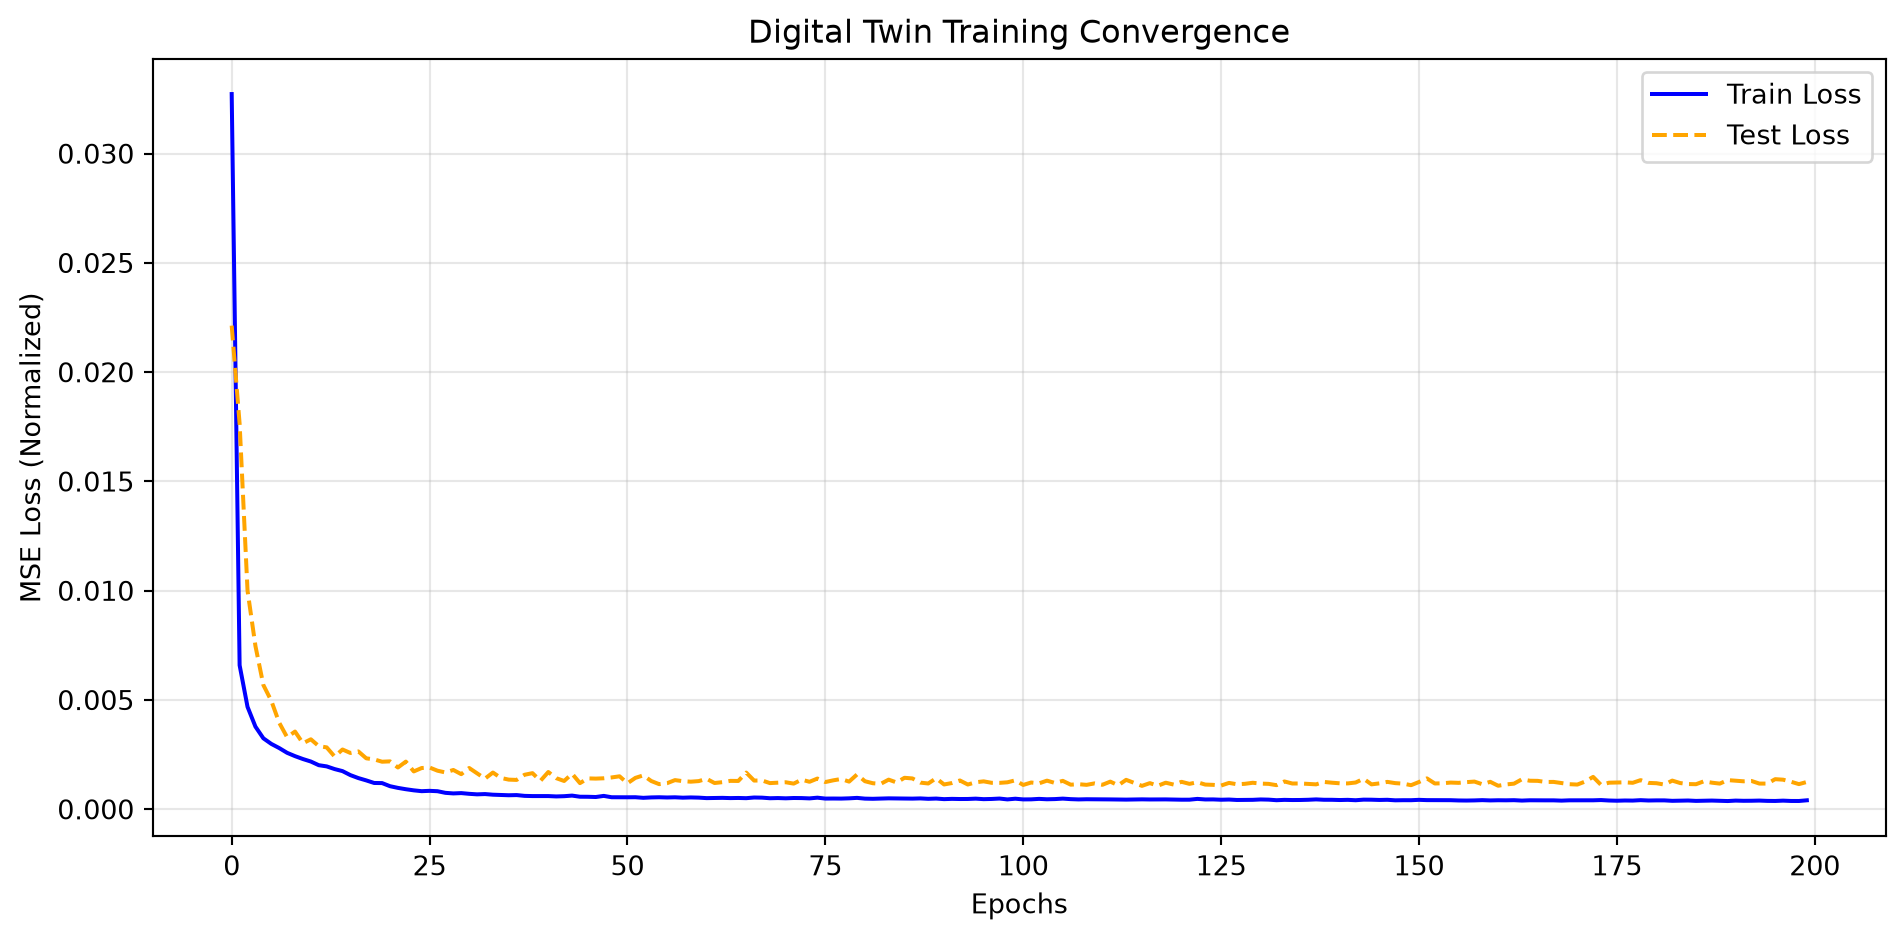
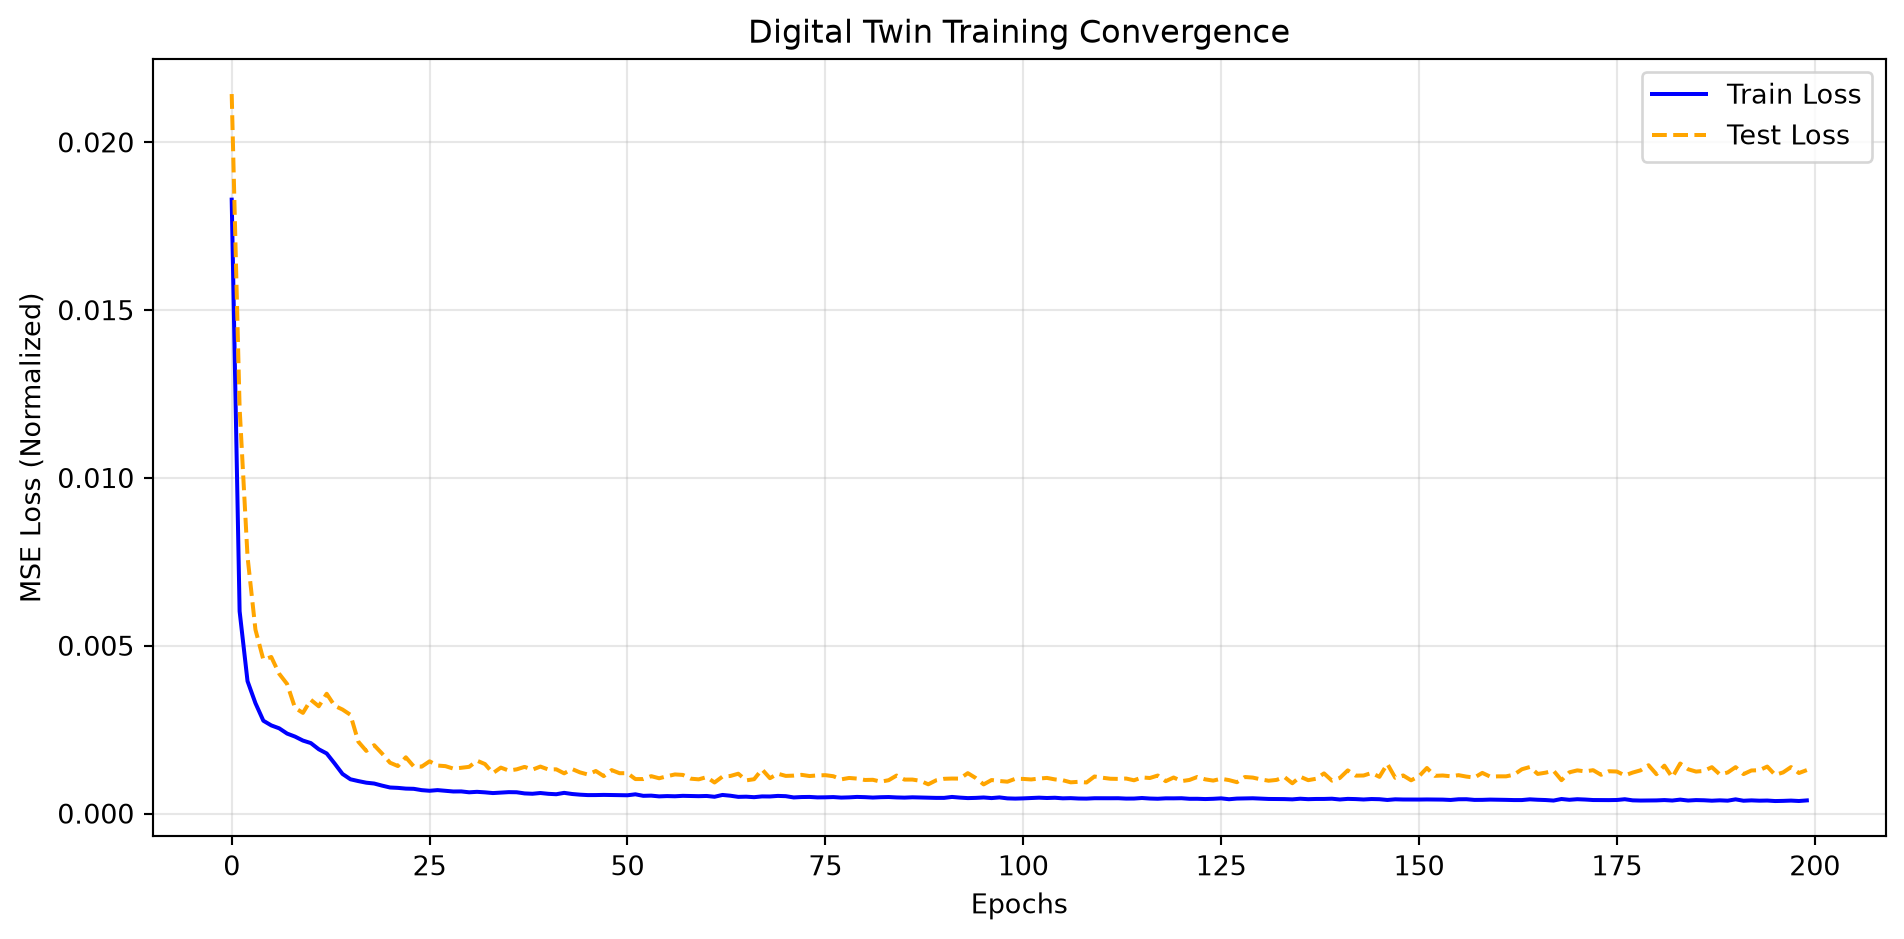
Built site for gh-pages

diff --git a/ai-ml/optitherm.html b/ai-ml/optitherm.html
@@ -497,7 +497,7 @@ os.environ['KAGGLE_KEY'] = "your_api_key"</code></pre>
 </div>
 </div>
 <hr>
-<div id="77cea618" class="cell" data-execution_count="1">
+<div id="9a4fe163" class="cell" data-execution_count="1">
 <div class="code-copy-outer-scaffold"><div class="sourceCode cell-code" id="cb2"><pre class="sourceCode python code-with-copy"><code class="sourceCode python"><span id="cb2-1"><a href="#cb2-1" aria-hidden="true" tabindex="-1"></a><span class="im">import</span> os</span>
 <span id="cb2-2"><a href="#cb2-2" aria-hidden="true" tabindex="-1"></a><span class="im">import</span> pandas <span class="im">as</span> pd</span>
 <span id="cb2-3"><a href="#cb2-3" aria-hidden="true" tabindex="-1"></a></span>
@@ -598,7 +598,7 @@ operable program or batch file.</code></pre>
 </section>
 <section id="stage-1-data-engineering-and-consolidation-1" class="level2">
 <h2 class="anchored" data-anchor-id="stage-1-data-engineering-and-consolidation-1">Stage 1: Data Engineering and Consolidation</h2>
-<div id="4094df43" class="cell" data-execution_count="2">
+<div id="67545c28" class="cell" data-execution_count="2">
 <div class="code-copy-outer-scaffold"><div class="sourceCode cell-code" id="cb5"><pre class="sourceCode python code-with-copy"><code class="sourceCode python"><span id="cb5-1"><a href="#cb5-1" aria-hidden="true" tabindex="-1"></a><span class="co"># Parameters for the digital twin</span></span>
 <span id="cb5-2"><a href="#cb5-2" aria-hidden="true" tabindex="-1"></a>building_id <span class="op">=</span> <span class="st">"Panther_office_Graham"</span></span>
 <span id="cb5-3"><a href="#cb5-3" aria-hidden="true" tabindex="-1"></a>site_id <span class="op">=</span> <span class="st">"Panther"</span></span>
@@ -663,7 +663,7 @@ dtype: int64</code></pre>
 <section id="next-step" class="level4">
 <h4 class="anchored" data-anchor-id="next-step">Next Step</h4>
 <p>Before deciding whether to impute or discard these observations, a visual temporal analysis is required to identify the distribution and duration of the electricity meter outages.</p>
-<div id="0519df6c" class="cell" data-execution_count="3">
+<div id="ea6f65bb" class="cell" data-execution_count="3">
 <div class="code-copy-outer-scaffold"><div class="sourceCode cell-code" id="cb7"><pre class="sourceCode python code-with-copy"><code class="sourceCode python"><span id="cb7-1"><a href="#cb7-1" aria-hidden="true" tabindex="-1"></a><span class="im">import</span> matplotlib.pyplot <span class="im">as</span> plt</span>
 <span id="cb7-2"><a href="#cb7-2" aria-hidden="true" tabindex="-1"></a></span>
 <span id="cb7-3"><a href="#cb7-3" aria-hidden="true" tabindex="-1"></a><span class="bu">print</span>(<span class="st">"1. Cleaning exogenous variables (weather data)..."</span>)</span>
@@ -719,7 +719,7 @@ dtype: int64
 <p>Interestingly, the prolonged sensor outage observed during the summer of 2017 was retained and used as a natural temporal boundary between the training and testing datasets. This approach avoids arbitrary data splitting strategies and ensures a realistic evaluation scenario, where the model is trained on past observations and tested on future unseen conditions.</p>
 <p><strong>Methodological justification:</strong></p>
 <p>The thermal dynamics of a building are learned from temporal sequences using recurrent neural networks (RNN/LSTM) with sliding windows. Therefore, preserving the chronological structure of the data is essential. By using the sensor outage as a natural separation point, the model evaluation better reflects a real-world deployment scenario, where future energy consumption must be predicted based solely on historical information.</p>
-<div id="5c3779c9" class="cell" data-execution_count="4">
+<div id="718451e8" class="cell" data-execution_count="4">
 <div class="code-copy-outer-scaffold"><div class="sourceCode cell-code" id="cb9"><pre class="sourceCode python code-with-copy"><code class="sourceCode python"><span id="cb9-1"><a href="#cb9-1" aria-hidden="true" tabindex="-1"></a><span class="bu">print</span>(<span class="st">"1. Removing the initial data gap (early 2016)..."</span>)</span>
 <span id="cb9-2"><a href="#cb9-2" aria-hidden="true" tabindex="-1"></a></span>
 <span id="cb9-3"><a href="#cb9-3" aria-hidden="true" tabindex="-1"></a><span class="co"># Remove the period with insufficient data coverage</span></span>
@@ -787,7 +787,7 @@ dtype: int64
 <p><strong><em>Why use both sine and cosine components?</em></strong></p>
 <p>Using only one trigonometric function introduces ambiguity due to symmetry. For example, if only the sine component is used, midnight (<span class="math inline">\(\sin(0)=0\)</span>) and noon (<span class="math inline">\(\sin(\pi)=0\)</span>) would receive the same value, preventing the model from distinguishing between day and night. By combining the cosine component (<span class="math inline">\(X\)</span>-axis) and sine component (<span class="math inline">\(Y\)</span>-axis), each timestamp is uniquely represented in a two-dimensional periodic space. Consequently, the Euclidean distance between 23:00 and 01:00 is correctly interpreted as small by the neural network.</p>
 <p>The following code adds these temporal coordinates to the dataset:</p>
-<div id="840dbe78" class="cell" data-execution_count="5">
+<div id="6b3bdf53" class="cell" data-execution_count="5">
 <div class="code-copy-outer-scaffold"><div class="sourceCode cell-code" id="cb11"><pre class="sourceCode python code-with-copy"><code class="sourceCode python"><span id="cb11-1"><a href="#cb11-1" aria-hidden="true" tabindex="-1"></a><span class="im">import</span> numpy <span class="im">as</span> np</span>
 <span id="cb11-2"><a href="#cb11-2" aria-hidden="true" tabindex="-1"></a><span class="im">import</span> matplotlib.pyplot <span class="im">as</span> plt</span>
 <span id="cb11-3"><a href="#cb11-3" aria-hidden="true" tabindex="-1"></a></span>
@@ -843,7 +843,7 @@ dtype: int64
 <p>This analysis provides valuable insights for feature selection before training the PyTorch model. Variables with limited predictive relevance may be removed to reduce noise and decrease the dimensionality of the input tensors. However, correlation alone does not fully capture the predictive value of a feature, especially in nonlinear time-dependent systems such as building thermal dynamics.</p>
 <p><strong>Code: Correlation Heatmap</strong></p>
 <p>The following visualization uses the <code>seaborn</code> library to generate a correlation heatmap, providing an overview of the relationships between the selected features and the energy consumption target.</p>
-<div id="dce56166" class="cell" data-execution_count="6">
+<div id="2b52032f" class="cell" data-execution_count="6">
 <div class="code-copy-outer-scaffold"><div class="sourceCode cell-code" id="cb13"><pre class="sourceCode python code-with-copy"><code class="sourceCode python"><span id="cb13-1"><a href="#cb13-1" aria-hidden="true" tabindex="-1"></a><span class="im">import</span> seaborn <span class="im">as</span> sns</span>
 <span id="cb13-2"><a href="#cb13-2" aria-hidden="true" tabindex="-1"></a><span class="im">import</span> matplotlib.pyplot <span class="im">as</span> plt</span>
 <span id="cb13-3"><a href="#cb13-3" aria-hidden="true" tabindex="-1"></a></span>
@@ -912,7 +912,7 @@ Generating the global Heatmap...</code></pre>
 <li><code>day_cos</code>: weekly temporal encoding component.</li>
 </ul>
 <p>The objective is to determine whether past values of these variables contain predictive information about future electricity consumption over a 24-hour horizon. This analysis helps identify delayed relationships that cannot be captured by a standard Pearson correlation computed at the same timestamp.</p>
-<div id="9d2dc6bb" class="cell" data-execution_count="7">
+<div id="e442dec5" class="cell" data-execution_count="7">
 <div class="code-copy-outer-scaffold"><div class="sourceCode cell-code" id="cb15"><pre class="sourceCode python code-with-copy"><code class="sourceCode python"><span id="cb15-1"><a href="#cb15-1" aria-hidden="true" tabindex="-1"></a><span class="im">import</span> pandas <span class="im">as</span> pd</span>
 <span id="cb15-2"><a href="#cb15-2" aria-hidden="true" tabindex="-1"></a><span class="im">import</span> matplotlib.pyplot <span class="im">as</span> plt</span>
 <span id="cb15-3"><a href="#cb15-3" aria-hidden="true" tabindex="-1"></a></span>
@@ -1060,7 +1060,7 @@ dtype: float64</code></pre>
 <p>To predict the energy consumption at time <span class="math inline">\(t\)</span>, the model receives the previous 24 hours of system information:</p>
 <p>[ [X_{t-24}, X_{t-23}, …, X_{t-1}] ]</p>
 <p>Any sequence containing missing target values is discarded to ensure that the model is trained only on physically consistent observations.</p>
-<div id="76c9d5b2" class="cell" data-execution_count="8">
+<div id="d6412aaf" class="cell" data-execution_count="8">
 <div class="code-copy-outer-scaffold"><div class="sourceCode cell-code" id="cb17"><pre class="sourceCode python code-with-copy"><code class="sourceCode python"><span id="cb17-1"><a href="#cb17-1" aria-hidden="true" tabindex="-1"></a><span class="im">import</span> numpy <span class="im">as</span> np</span>
 <span id="cb17-2"><a href="#cb17-2" aria-hidden="true" tabindex="-1"></a><span class="im">import</span> pandas <span class="im">as</span> pd</span>
 <span id="cb17-3"><a href="#cb17-3" aria-hidden="true" tabindex="-1"></a><span class="im">from</span> sklearn.preprocessing <span class="im">import</span> MinMaxScaler</span>
@@ -1193,7 +1193,7 @@ Testing X : (3824, 24, 11), y: (3824, 1)</code></pre>
 </ol>
 <p>The model parameters are optimized by minimizing the Mean Squared Error (MSE) loss, which is appropriate for this continuous regression problem. The Adam optimizer is selected due to its adaptive learning rate mechanism and its robustness for training deep neural networks.</p>
 <p>The following code implements the <code>ThermalLSTM</code> architecture and initializes the training configuration.</p>
-<div id="e2bbd904" class="cell" data-execution_count="9">
+<div id="95fb86e0" class="cell" data-execution_count="9">
 <div class="code-copy-outer-scaffold"><div class="sourceCode cell-code" id="cb19"><pre class="sourceCode python code-with-copy"><code class="sourceCode python"><span id="cb19-1"><a href="#cb19-1" aria-hidden="true" tabindex="-1"></a><span class="im">import</span> torch</span>
 <span id="cb19-2"><a href="#cb19-2" aria-hidden="true" tabindex="-1"></a><span class="im">import</span> torch.nn <span class="im">as</span> nn</span>
 <span id="cb19-3"><a href="#cb19-3" aria-hidden="true" tabindex="-1"></a><span class="im">import</span> torch.optim <span class="im">as</span> optim</span>
@@ -1276,7 +1276,7 @@ ThermalLSTM(
 -&gt; Model ready for training.</code></pre>
 </div>
 </div>
-<div id="b9ccacfa" class="cell" data-execution_count="10">
+<div id="6f976e1b" class="cell" data-execution_count="10">
 <div class="code-copy-outer-scaffold"><div class="sourceCode cell-code" id="cb21"><pre class="sourceCode python code-with-copy"><code class="sourceCode python"><span id="cb21-1"><a href="#cb21-1" aria-hidden="true" tabindex="-1"></a><span class="im">import</span> torch</span>
 <span id="cb21-2"><a href="#cb21-2" aria-hidden="true" tabindex="-1"></a><span class="im">from</span> torch.utils.data <span class="im">import</span> TensorDataset, DataLoader</span>
 <span id="cb21-3"><a href="#cb21-3" aria-hidden="true" tabindex="-1"></a></span>
@@ -1325,7 +1325,7 @@ Creating DataLoaders...
 <p>After each epoch, the model is evaluated on the future unseen dataset separated by the natural sensor outage boundary. This chronological evaluation provides a realistic measure of the model’s generalization capability.</p></li>
 </ol>
 <p>The evolution of the training and evaluation losses is stored throughout the optimization process to monitor convergence and detect potential overfitting.</p>
-<div id="d575ef4e" class="cell" data-execution_count="11">
+<div id="d12b7756" class="cell" data-execution_count="11">
 <div class="code-copy-outer-scaffold"><div class="sourceCode cell-code" id="cb23"><pre class="sourceCode python code-with-copy"><code class="sourceCode python"><span id="cb23-1"><a href="#cb23-1" aria-hidden="true" tabindex="-1"></a><span class="im">import</span> torch</span>
 <span id="cb23-2"><a href="#cb23-2" aria-hidden="true" tabindex="-1"></a></span>
 <span id="cb23-3"><a href="#cb23-3" aria-hidden="true" tabindex="-1"></a><span class="bu">print</span>(<span class="st">"Configuring the training loop..."</span>)</span>
@@ -1405,33 +1405,33 @@ Creating DataLoaders...
 <span id="cb23-77"><a href="#cb23-77" aria-hidden="true" tabindex="-1"></a><span class="bu">print</span>(<span class="ss">f"Best test MSE: </span><span class="sc">{</span>best_test_loss<span class="sc">:.6f}</span><span class="ss">"</span>)</span></code></pre></div><button title="Copy to Clipboard" class="code-copy-button"><i class="bi"></i></button></div>
 <div class="cell-output cell-output-stdout">
 <pre><code>Configuring the training loop...
-Epoch [  1/200] | Train Loss (MSE): 0.032725 | Test Loss (MSE): 0.022129
-Epoch [ 10/200] | Train Loss (MSE): 0.002297 | Test Loss (MSE): 0.003018
-Epoch [ 20/200] | Train Loss (MSE): 0.001196 | Test Loss (MSE): 0.002174
-Epoch [ 30/200] | Train Loss (MSE): 0.000738 | Test Loss (MSE): 0.001605
-Epoch [ 40/200] | Train Loss (MSE): 0.000602 | Test Loss (MSE): 0.001298
-Epoch [ 50/200] | Train Loss (MSE): 0.000546 | Test Loss (MSE): 0.001507
-Epoch [ 60/200] | Train Loss (MSE): 0.000531 | Test Loss (MSE): 0.001287
-Epoch [ 70/200] | Train Loss (MSE): 0.000512 | Test Loss (MSE): 0.001213
-Epoch [ 80/200] | Train Loss (MSE): 0.000519 | Test Loss (MSE): 0.001590
-Epoch [ 90/200] | Train Loss (MSE): 0.000488 | Test Loss (MSE): 0.001418
-Epoch [100/200] | Train Loss (MSE): 0.000481 | Test Loss (MSE): 0.001323
-Epoch [110/200] | Train Loss (MSE): 0.000453 | Test Loss (MSE): 0.001182
-Epoch [120/200] | Train Loss (MSE): 0.000442 | Test Loss (MSE): 0.001129
-Epoch [130/200] | Train Loss (MSE): 0.000430 | Test Loss (MSE): 0.001211
-Epoch [140/200] | Train Loss (MSE): 0.000432 | Test Loss (MSE): 0.001214
-Epoch [150/200] | Train Loss (MSE): 0.000413 | Test Loss (MSE): 0.001100
-Epoch [160/200] | Train Loss (MSE): 0.000403 | Test Loss (MSE): 0.001255
-Epoch [170/200] | Train Loss (MSE): 0.000408 | Test Loss (MSE): 0.001146
-Epoch [180/200] | Train Loss (MSE): 0.000399 | Test Loss (MSE): 0.001205
-Epoch [190/200] | Train Loss (MSE): 0.000375 | Test Loss (MSE): 0.001333
-Epoch [200/200] | Train Loss (MSE): 0.000408 | Test Loss (MSE): 0.001248
+Epoch [  1/200] | Train Loss (MSE): 0.018291 | Test Loss (MSE): 0.021436
+Epoch [ 10/200] | Train Loss (MSE): 0.002174 | Test Loss (MSE): 0.002998
+Epoch [ 20/200] | Train Loss (MSE): 0.000831 | Test Loss (MSE): 0.001786
+Epoch [ 30/200] | Train Loss (MSE): 0.000659 | Test Loss (MSE): 0.001363
+Epoch [ 40/200] | Train Loss (MSE): 0.000611 | Test Loss (MSE): 0.001399
+Epoch [ 50/200] | Train Loss (MSE): 0.000549 | Test Loss (MSE): 0.001201
+Epoch [ 60/200] | Train Loss (MSE): 0.000517 | Test Loss (MSE): 0.001018
+Epoch [ 70/200] | Train Loss (MSE): 0.000525 | Test Loss (MSE): 0.001186
+Epoch [ 80/200] | Train Loss (MSE): 0.000495 | Test Loss (MSE): 0.001041
+Epoch [ 90/200] | Train Loss (MSE): 0.000466 | Test Loss (MSE): 0.000990
+Epoch [100/200] | Train Loss (MSE): 0.000445 | Test Loss (MSE): 0.001035
+Epoch [110/200] | Train Loss (MSE): 0.000456 | Test Loss (MSE): 0.001103
+Epoch [120/200] | Train Loss (MSE): 0.000452 | Test Loss (MSE): 0.001073
+Epoch [130/200] | Train Loss (MSE): 0.000455 | Test Loss (MSE): 0.001071
+Epoch [140/200] | Train Loss (MSE): 0.000441 | Test Loss (MSE): 0.000980
+Epoch [150/200] | Train Loss (MSE): 0.000416 | Test Loss (MSE): 0.000990
+Epoch [160/200] | Train Loss (MSE): 0.000415 | Test Loss (MSE): 0.001099
+Epoch [170/200] | Train Loss (MSE): 0.000409 | Test Loss (MSE): 0.001228
+Epoch [180/200] | Train Loss (MSE): 0.000389 | Test Loss (MSE): 0.001439
+Epoch [190/200] | Train Loss (MSE): 0.000383 | Test Loss (MSE): 0.001223
+Epoch [200/200] | Train Loss (MSE): 0.000391 | Test Loss (MSE): 0.001295
 
 --- Training completed successfully! ---
-Best test MSE: 0.001069</code></pre>
+Best test MSE: 0.000867</code></pre>
 </div>
 </div>
-<div id="ad184f2e" class="cell" data-execution_count="12">
+<div id="b90b93cd" class="cell" data-execution_count="12">
 <div class="code-copy-outer-scaffold"><div class="sourceCode cell-code" id="cb25"><pre class="sourceCode python code-with-copy"><code class="sourceCode python"><span id="cb25-1"><a href="#cb25-1" aria-hidden="true" tabindex="-1"></a><span class="im">import</span> matplotlib.dates <span class="im">as</span> mdates</span>
 <span id="cb25-2"><a href="#cb25-2" aria-hidden="true" tabindex="-1"></a><span class="im">import</span> matplotlib.pyplot <span class="im">as</span> plt</span>
 <span id="cb25-3"><a href="#cb25-3" aria-hidden="true" tabindex="-1"></a></span>
@@ -1487,7 +1487,7 @@ Best test MSE: 0.001069</code></pre>
 </div>
 </div>
 </div>
-<div id="54ec107e" class="cell" data-execution_count="13">
+<div id="e63f69b4" class="cell" data-execution_count="13">
 <div class="code-copy-outer-scaffold"><div class="sourceCode cell-code" id="cb27"><pre class="sourceCode python code-with-copy"><code class="sourceCode python"><span id="cb27-1"><a href="#cb27-1" aria-hidden="true" tabindex="-1"></a>plt.figure(figsize<span class="op">=</span>(<span class="dv">10</span>, <span class="dv">5</span>))</span>
 <span id="cb27-2"><a href="#cb27-2" aria-hidden="true" tabindex="-1"></a>plt.plot(train_losses, label<span class="op">=</span><span class="st">"Train Loss"</span>, color<span class="op">=</span><span class="st">'blue'</span>)</span>
 <span id="cb27-3"><a href="#cb27-3" aria-hidden="true" tabindex="-1"></a>plt.plot(test_losses, label<span class="op">=</span><span class="st">"Test Loss"</span>, color<span class="op">=</span><span class="st">'orange'</span>, linestyle<span class="op">=</span><span class="st">'--'</span>)</span>
@@ -1506,7 +1506,7 @@ Best test MSE: 0.001069</code></pre>
 </div>
 </div>
 </div>
-<div id="3f1f5c5a" class="cell" data-execution_count="14">
+<div id="1befe977" class="cell" data-execution_count="14">
 <div class="code-copy-outer-scaffold"><div class="sourceCode cell-code" id="cb28"><pre class="sourceCode python code-with-copy"><code class="sourceCode python"><span id="cb28-1"><a href="#cb28-1" aria-hidden="true" tabindex="-1"></a>plt.figure(figsize<span class="op">=</span>(<span class="dv">6</span>, <span class="dv">6</span>))</span>
 <span id="cb28-2"><a href="#cb28-2" aria-hidden="true" tabindex="-1"></a>plt.scatter(actuals_rescaled, predictions_rescaled, alpha<span class="op">=</span><span class="fl">0.3</span>, color<span class="op">=</span><span class="st">'purple'</span>, s<span class="op">=</span><span class="dv">10</span>, label<span class="op">=</span><span class="st">"Predictions"</span>)</span>
 <span id="cb28-3"><a href="#cb28-3" aria-hidden="true" tabindex="-1"></a></span>
